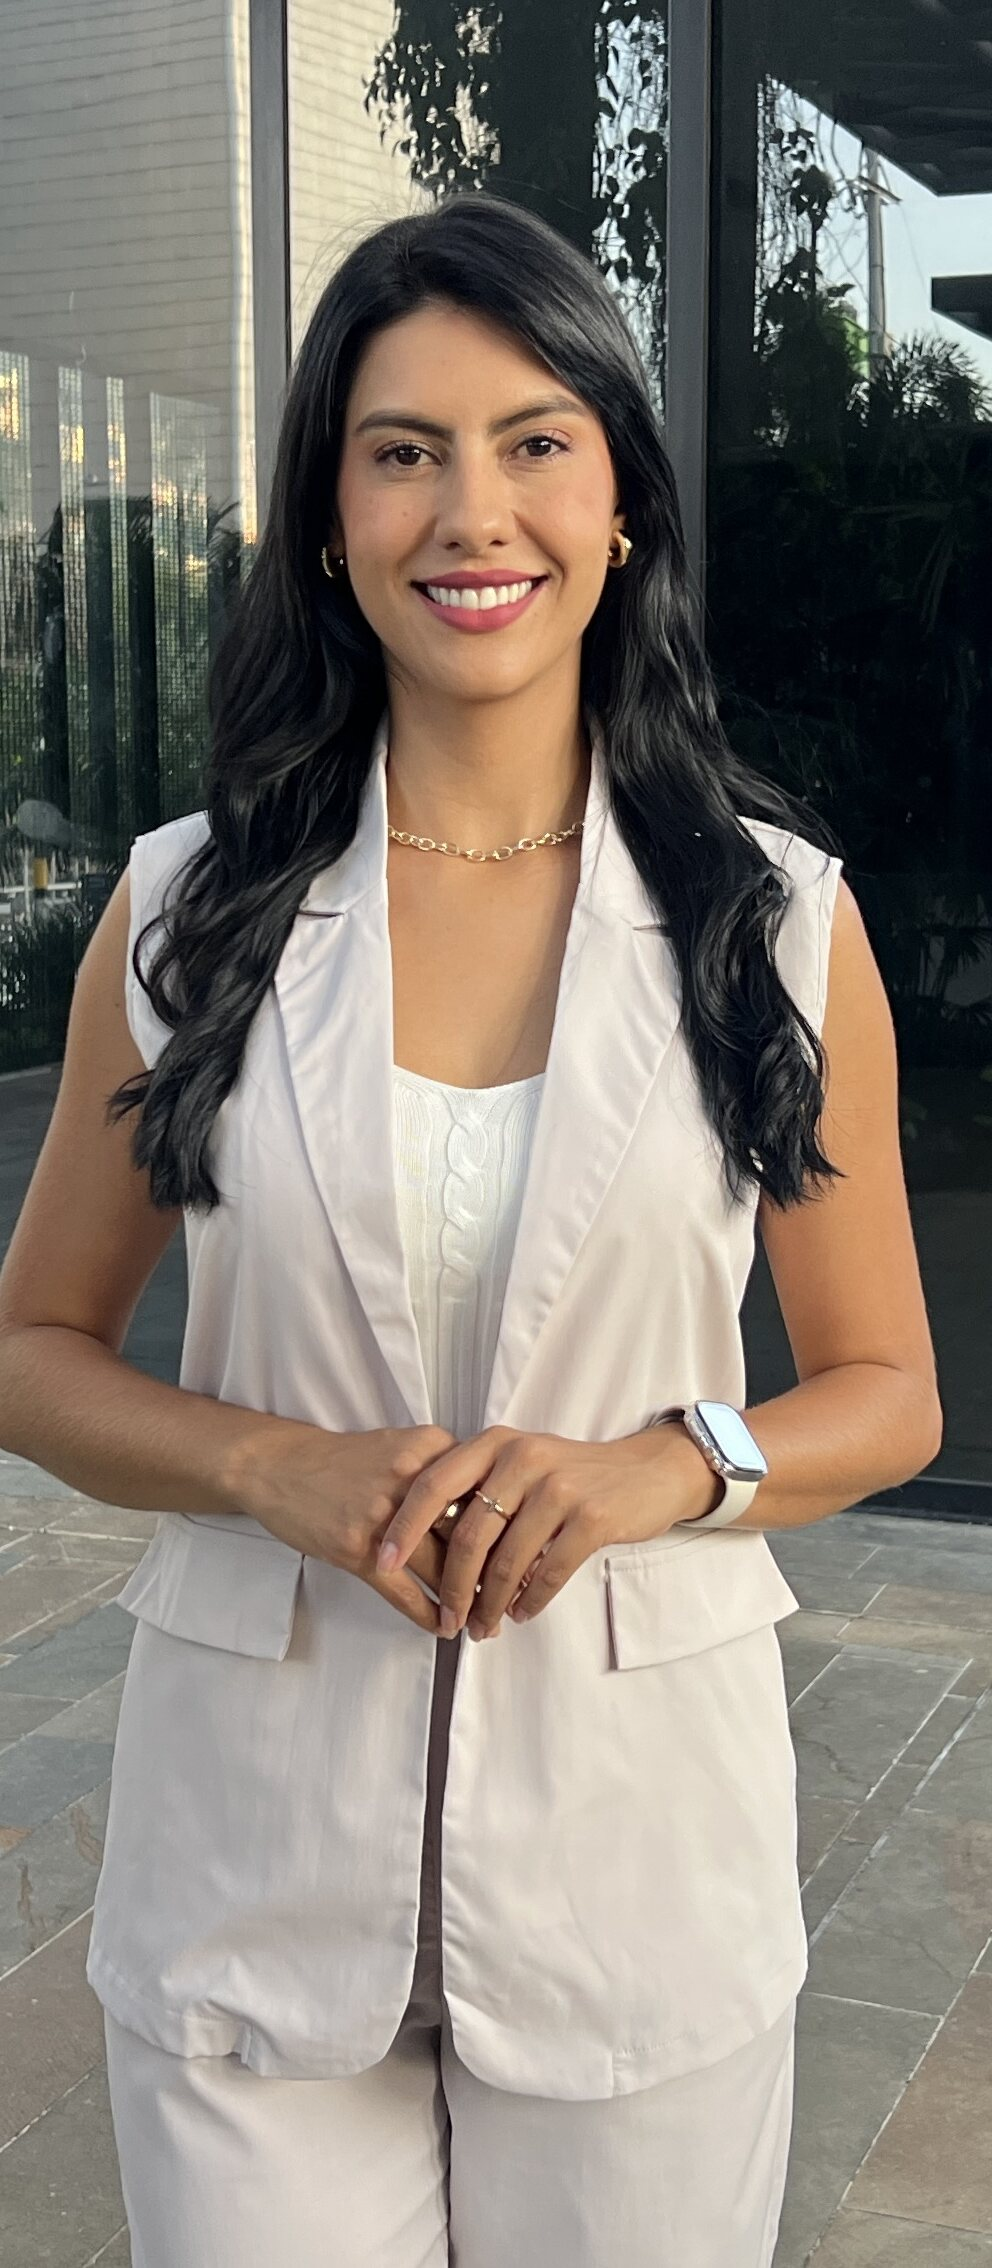
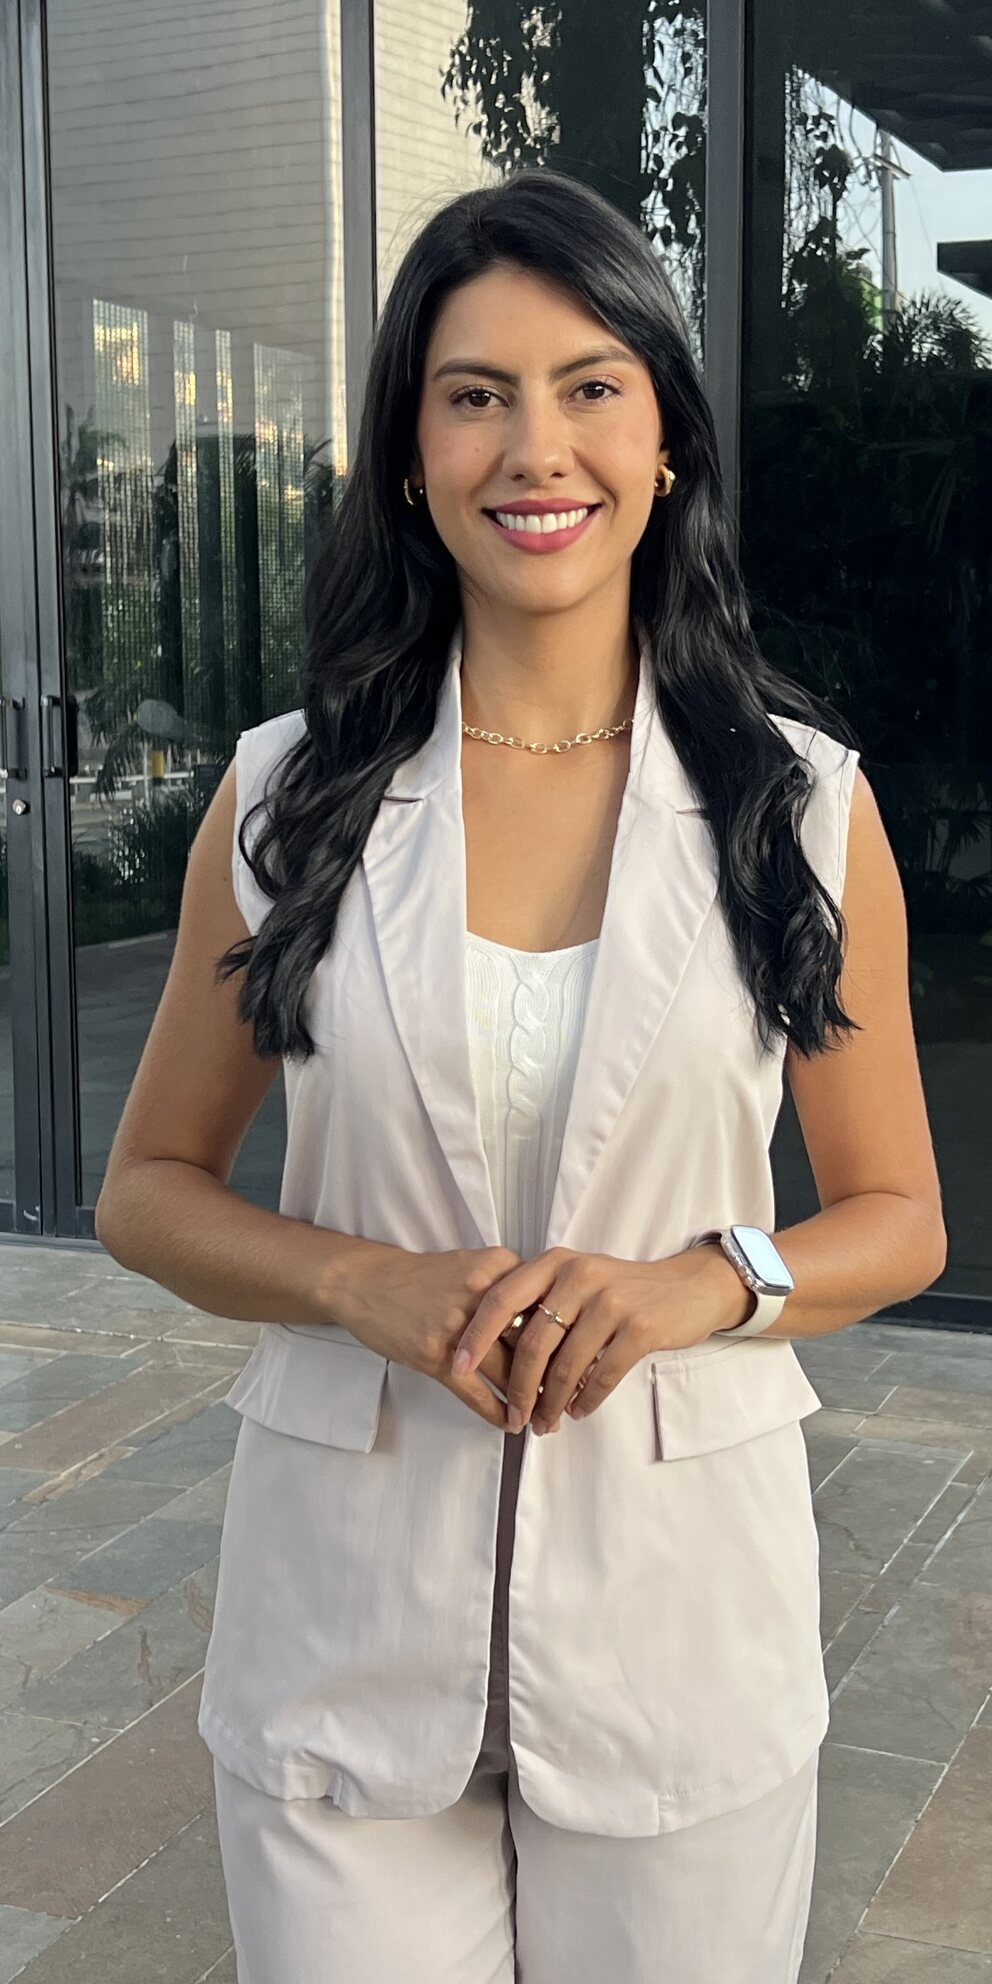
Refine mobile hero zoom

diff --git a/changes/ui/hero-desktop-image-source-swap.md b/changes/ui/hero-desktop-image-source-swap.md
@@ -19,3 +19,13 @@
   - `public/uploads/gisela-hero-mobile-992.jpg`
 - **Issue**: On small screens the hero still cropped too aggressively, shaving the top of the head and cutting too close to the left arm.
 - **Fix**: Added a dedicated narrow mobile crop from the same high-resolution source and routed it through the hero `<picture>` only for screens below `768px`. The base mobile `object-position` was also shifted to `44% 0%` to keep a little more left-side room and top headroom across narrow devices.
+
+## Mobile zoom-out refinement
+
+- **Date**: 2026-03-17
+- **Files modified**:
+  - `public/uploads/gisela-hero-mobile-768.webp`
+  - `public/uploads/gisela-hero-mobile-992.webp`
+  - `public/uploads/gisela-hero-mobile-992.jpg`
+- **Issue**: Mobile framing still felt too close to the face compared with desktop.
+- **Fix**: Replaced the mobile assets with a wider crop from the same source image (kept the same file names and breakpoints) so the hero reads less zoomed-in on phones while preserving the current desktop framing logic.
